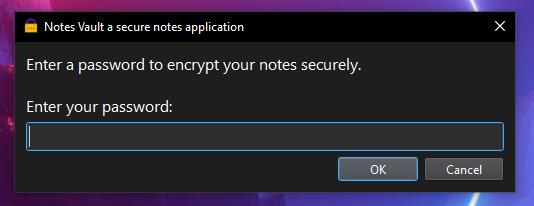
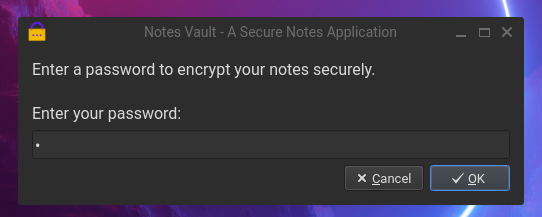
refactor, V4.1.1

Changed region(s): [[0.0, 0.0, 1.0, 1.0]]

diff --git a/README.md b/README.md
@@ -2,6 +2,8 @@
 
 ![ALT](Screenshot-1.png)
 ![ALT](Screenshot-2.png)
+![ALT](Screenshot-3.png)
+![ALT](Screenshot-4.png)
 
 ## V4.1.1
 
